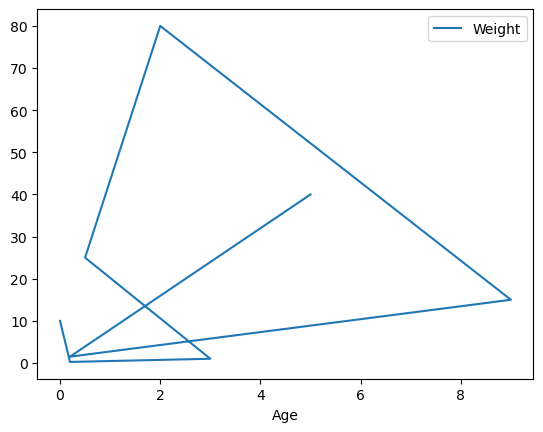
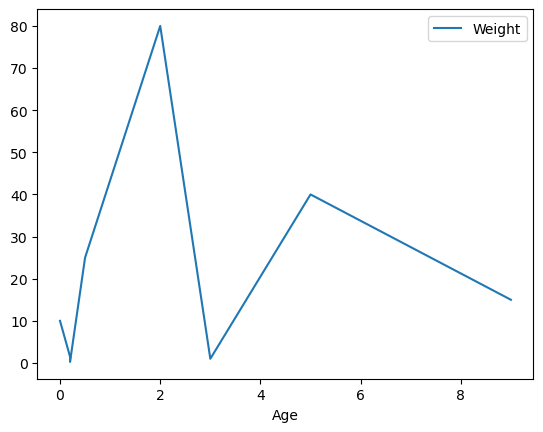
revised Line Plot documentation

diff --git a/docs/plotting/Line Plot.md b/docs/plotting/Line Plot.md
@@ -32,7 +32,7 @@ import '../../src/css/function.css';
 ---
 
 ```python
-pets.plot(kind='line', x='Age', y='Weight')
+pets.sort_values(by='Age').plot(kind='line', x='Age', y='Weight')
 ```
 
 ![Line plot example 1](/img/line-plot/lineex1.png)
